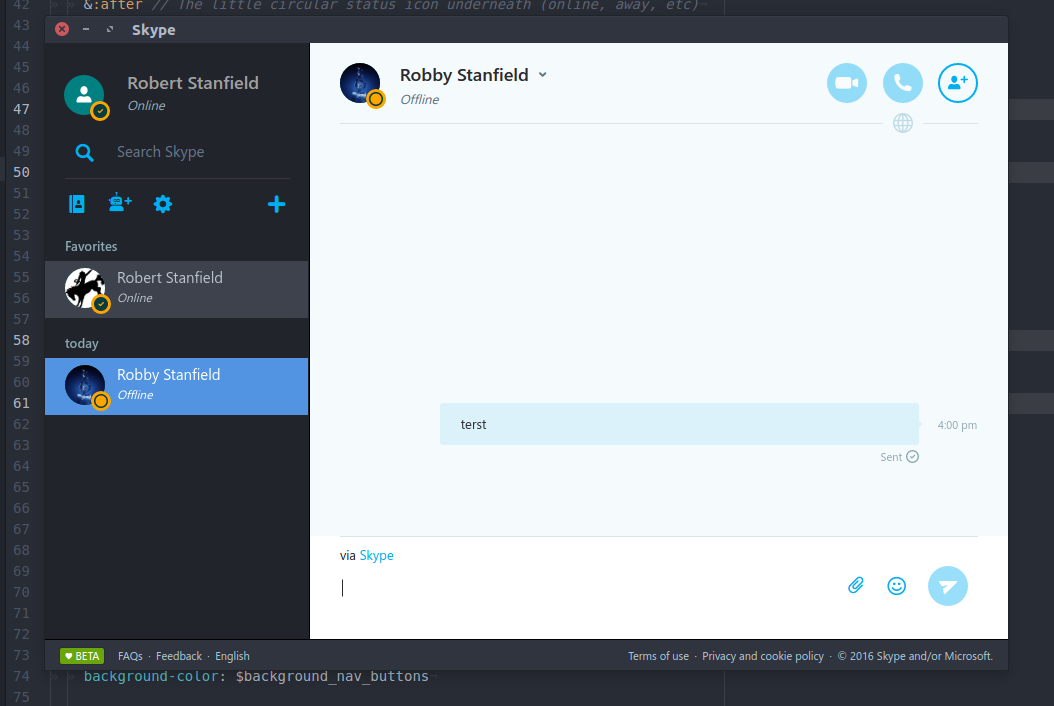
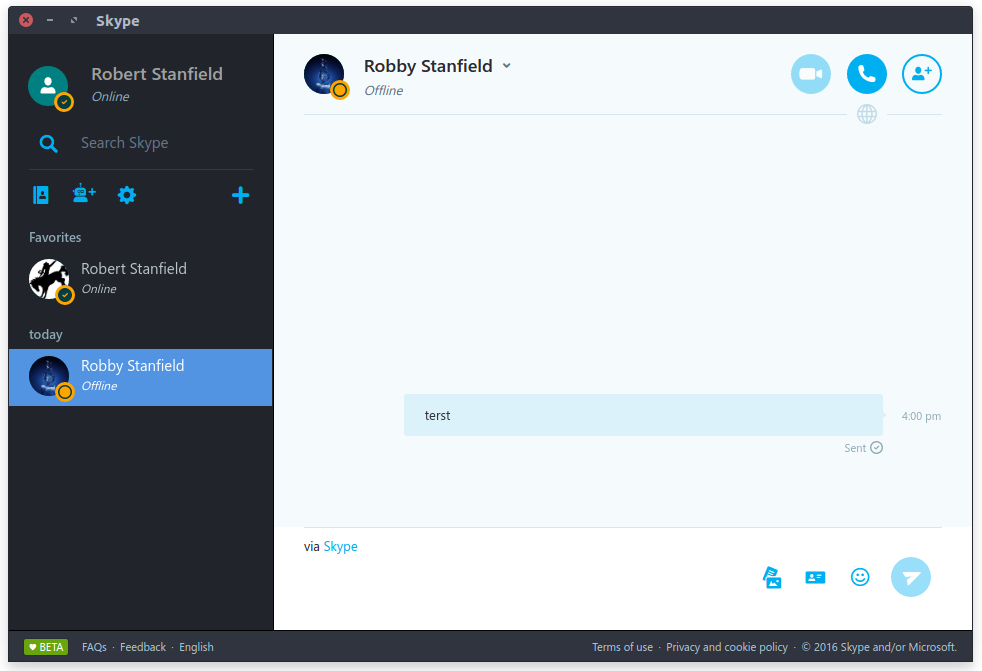
Fixed audio calls

Changed region(s): [[0.0, 0.0, 1.0, 1.0]]

diff --git a/src/main.js b/src/main.js
@@ -69,6 +69,8 @@ app.on('ready', () => {
 	});
 
 	TrayIcon.init(mainWindow);
+
+	mainWindow.webContents.setUserAgent("Mozilla/5.0 (X11; Linux x86_64) AppleWebKit/537.36 (KHTML, like Gecko) Chrome/55.0.2883.87 Safari/537.36");
 	mainWindow.loadURL('https://web.skype.com/en');
 });
 
